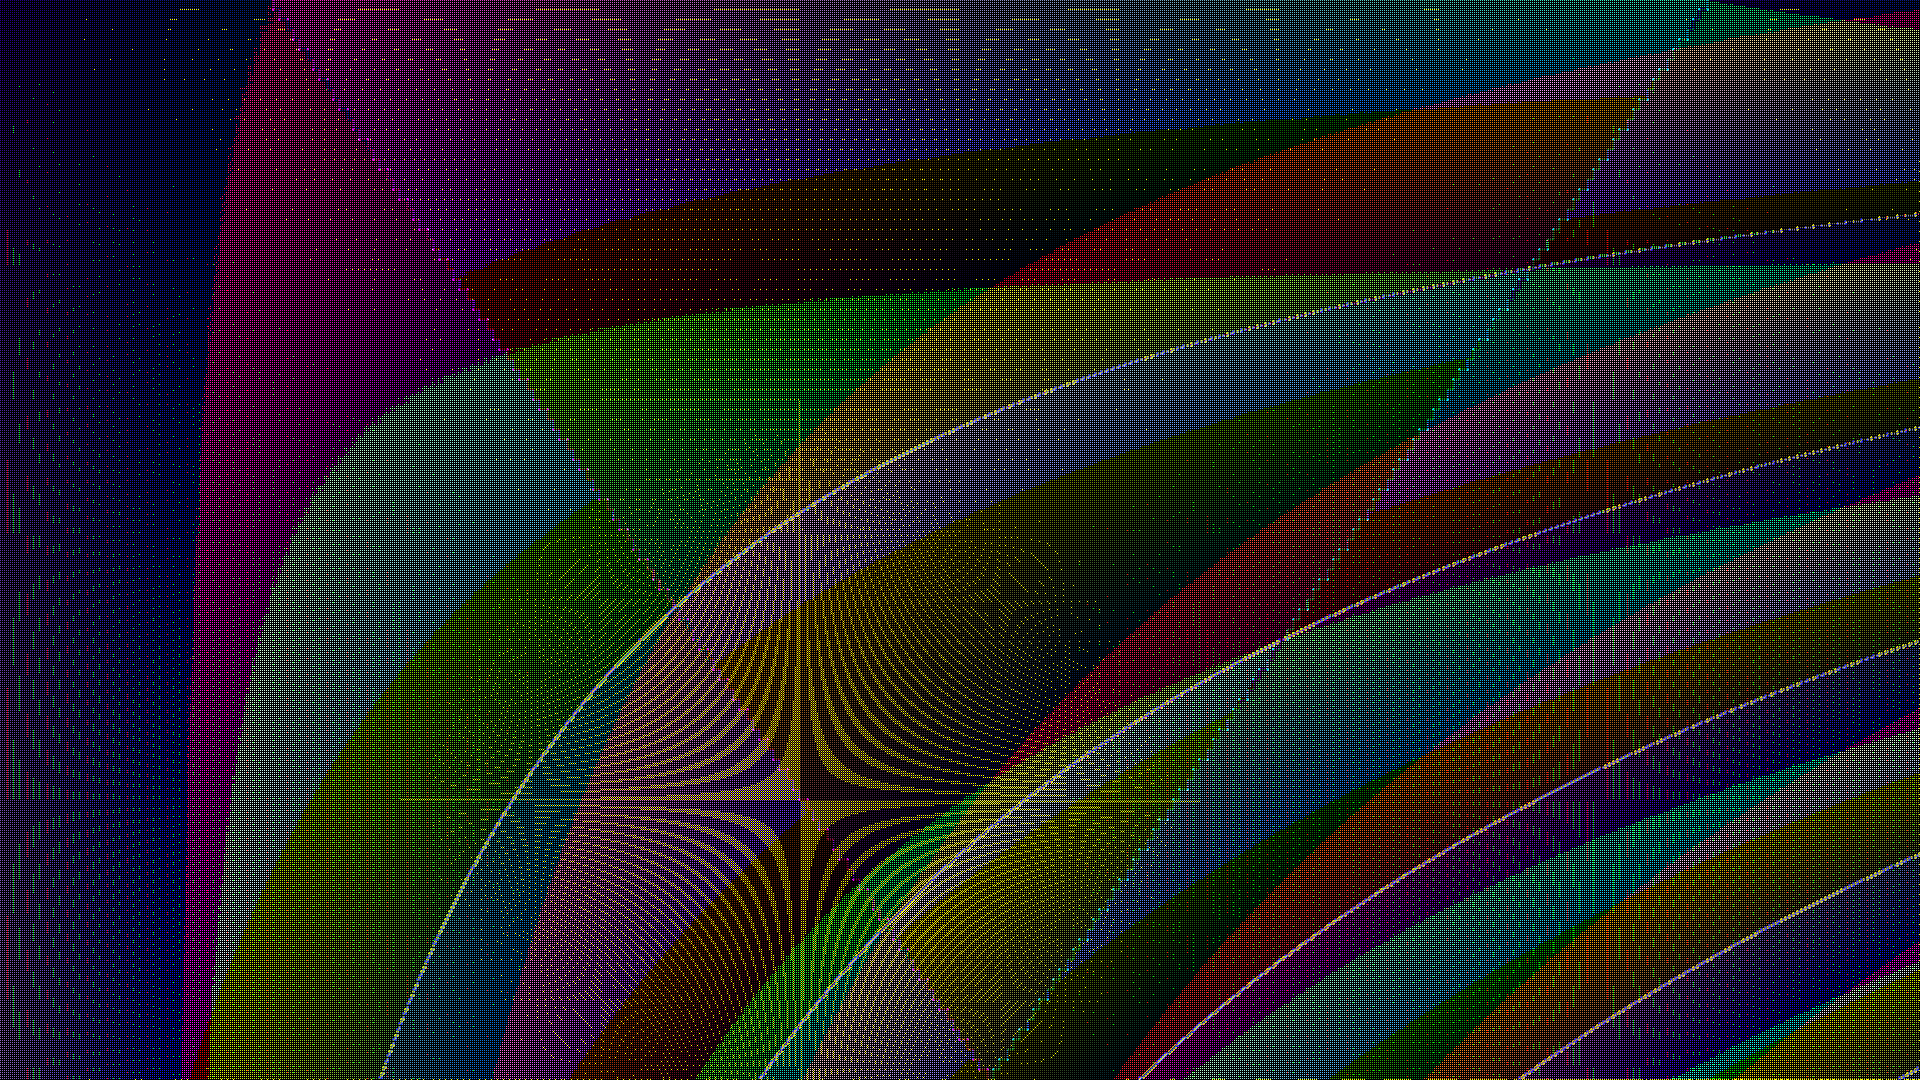
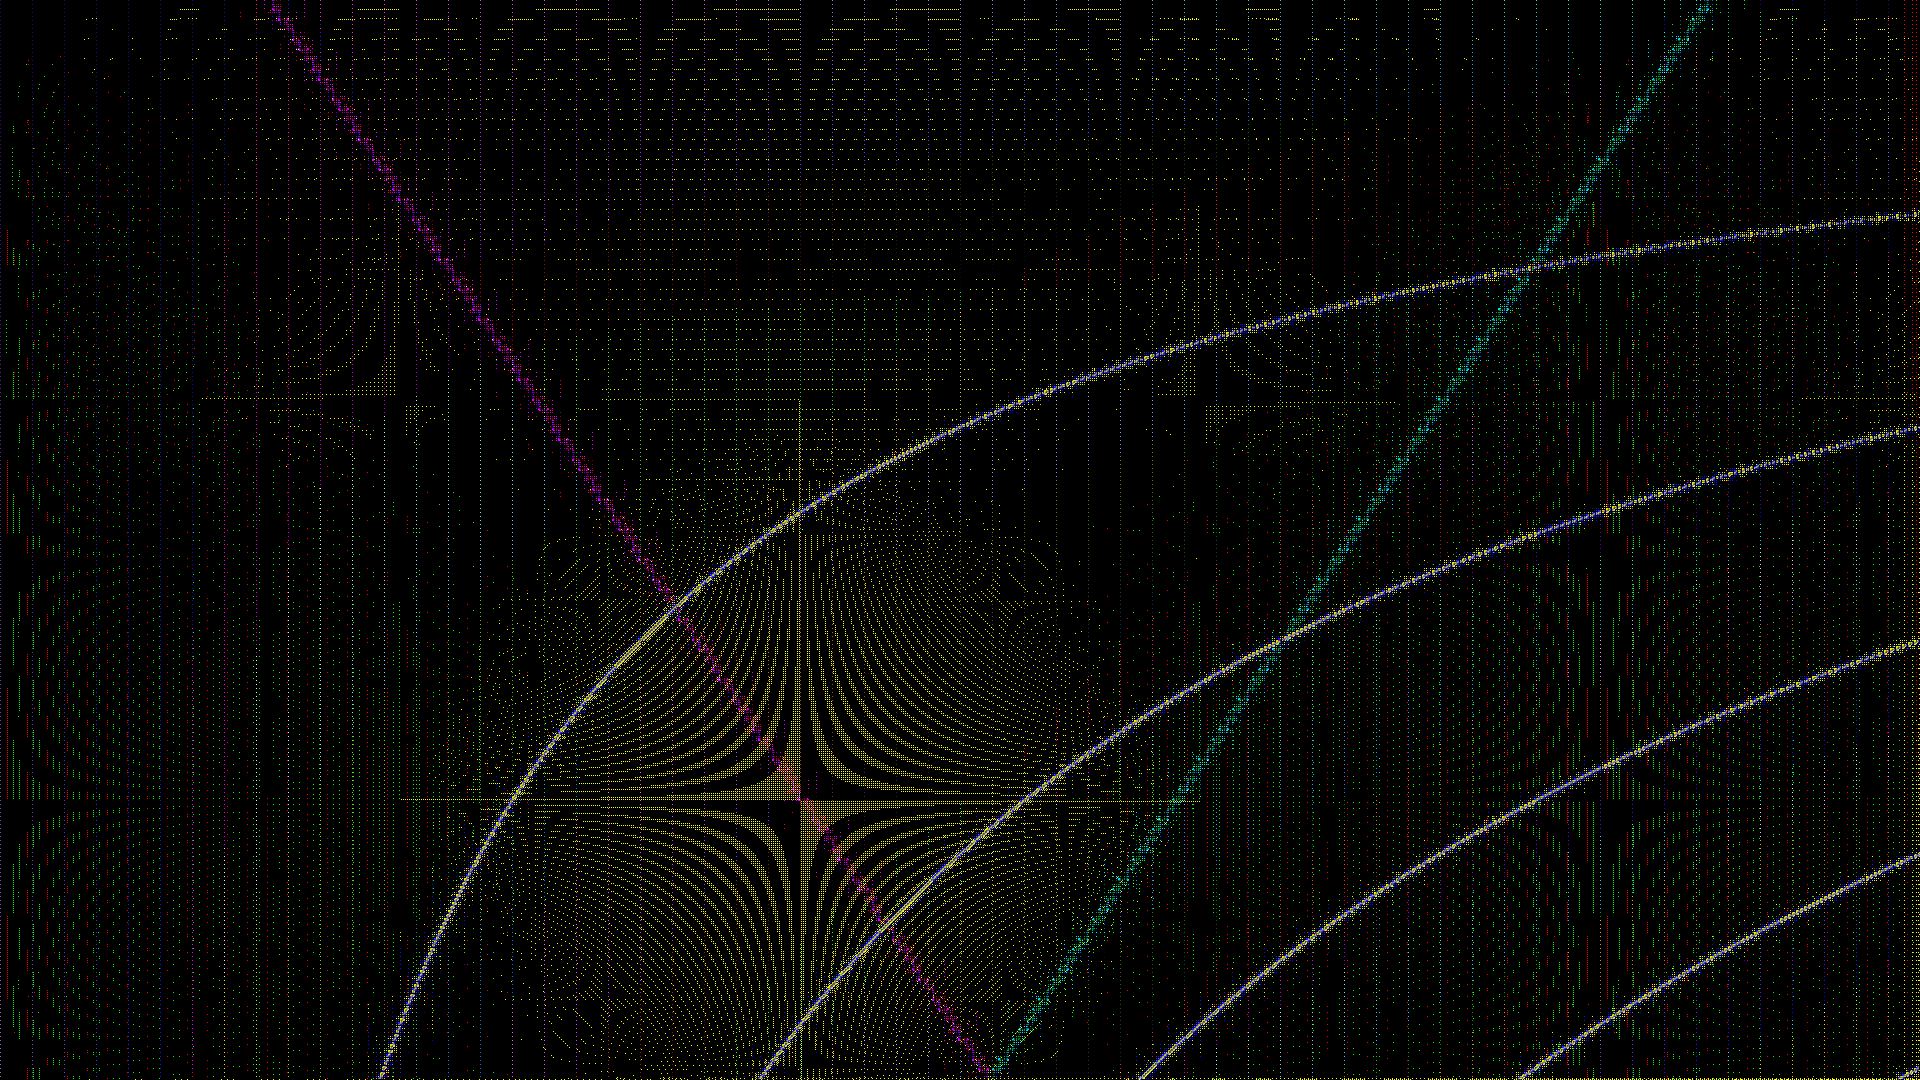
re-ordering approx/detail coeff into text pic with any decomp levels possible

Changed region(s): [[0.0, 0.0, 1.0, 1.0]]

diff --git a/JXS_wavelet_transform/JXS_wavelet_transform.cpp b/JXS_wavelet_transform/JXS_wavelet_transform.cpp
@@ -44,8 +44,8 @@ int main()
     image_paint(image);
 
     //ids_construct(&ids, &image, cfgpNLx, cfgpNLy, cfgpSd, xs_config.p.Cw, xs_config.p.Lh);
-    int8_t/*nibble*/ ndecomp_h = 1; // 5;
-    int8_t/*nibble*/ ndecomp_v = 1; // 2;
+    int8_t/*nibble*/ ndecomp_h = 5; // 5;
+    int8_t/*nibble*/ ndecomp_v = 2; // 2;
     ids.ncomps = image.ncomps;
     ids.w = image.width;
     ids.h = image.height;
@@ -116,47 +116,56 @@ int main()
     // and save this picture to image file
     if (image_write(image.width, image.height, buf, L"decomposition_after_inline_DWT.png"))
         printf("cannot write image file 'decomposition_after_inline_DWT.png'\n");
-    // re-order picture with (ndecomp_h, ndecomp_v) stencils into classical decomposition picture, 
-    // (AA, LH, HL, HH), or (AA, HD, VD, DD) in MATLAB convention. Only ndecomp_h = 1, ndecomp_v = 1 is shown, 
-    // other (ndecomp_h, ndecomp_v) values may follow suit later
-    if (ndecomp_h == 1 && ndecomp_v == 1)
+
+    // re-order picture with (ndecomp_h, ndecomp_v) stencils into classical decomposition picture: 
+    // for example, for ndecomp_h = 1, ndecomp_v = 1 it would look like
+    // (AA, LH, HL, HH), or (AA, HD, VD, DD) in MATLAB convention.
+    
+    int stride = image.width;
+    int rs = 256 * 16; // right shift, 12 bit positions
+    int cellw = image.width / (1 << ndecomp_h); // cell width
+    if (ndecomp_v == 0)
     {
-        int rs = 256 * 16; // right shift, 12 bit positions
-        for (int iy = 0; iy < image.height / 2; ++iy)
+        for (int lvlhor = 0; lvlhor <= (1 << ndecomp_h) - 1; ++lvlhor)
         {
-            for (int ix = 0; ix < image.width / 2; ++ix)
+            int cell0x = lvlhor * cellw; // cell origin X
+            for (int iy = 0; iy < image.height; ++iy)
             {
-                int stride = image.width;
-                int iCC = 2 * iy * stride + 2 * ix; // top left stencil corner
-                int iLL = iy * image.width + ix;
-                int iLH = iy * image.width + ix + image.width / 2;
-                int iHL = (iy + image.height / 2) * image.width + ix;
-                int iHH = (iy + image.height / 2) * image.width + ix + image.width / 2;
-                buf[iLL] = // Approximation coeffs
-                    (uint8_t)(image.comps_array[0][iCC] / rs) * 256 * 256 + // red
-                    (uint8_t)(image.comps_array[1][iCC] / rs) * 256 + // green
-                    (uint8_t)(image.comps_array[2][iCC] / rs); // blue
-                buf[iLH] = // horizontal detail coeffs
-                    (uint8_t)(image.comps_array[0][iCC + 1] / rs) * 256 * 256 + // red
-                    (uint8_t)(image.comps_array[1][iCC + 1] / rs) * 256 + // green
-                    (uint8_t)(image.comps_array[2][iCC + 1] / rs); // blue
-                buf[iHL] = // vertical detail coeffs
-                    (uint8_t)(image.comps_array[0][iCC + stride] / rs) * 256 * 256 + // red
-                    (uint8_t)(image.comps_array[1][iCC + stride] / rs) * 256 + // green
-                    (uint8_t)(image.comps_array[2][iCC + stride] / rs); // blue
-                buf[iHH] = // diagonal detail coeffs
-                    (uint8_t)(image.comps_array[0][iCC + stride + 1] / rs) * 256 * 256 + // red
-                    (uint8_t)(image.comps_array[1][iCC + stride + 1] / rs) * 256 + // green
-                    (uint8_t)(image.comps_array[2][iCC + stride + 1] / rs); // blue
+                for (int ix = 0, ixs = ix + lvlhor; ix < cellw && ixs < image.width; ++ix, ixs += (1 << ndecomp_h))
+                {
+                    buf[iy * stride + cell0x + ix] =
+                        (uint8_t)(image.comps_array[0][iy * stride + ixs] / rs) * 256 * 256 + // red
+                        (uint8_t)(image.comps_array[1][iy * stride + ixs] / rs) * 256 + // green
+                        (uint8_t)(image.comps_array[2][iy * stride + ixs] / rs); // blue
+                }
             }
         }
-        if (image_write(image.width, image.height, buf, L"re-ordered_decomposition.png"))
-            printf("cannot write image file 're-ordered_decomposition.png'\n");
     }
     else
     {
-            printf("decomp_H/V!=1, image file 're-ordered_decomposition.png unaltered from previous run'\n");
+        int cellh = image.height / (1 << ndecomp_v); // cell height
+        for (int lvlver = 0; lvlver <= (1 << ndecomp_v) - 1; ++lvlver) // lvlver is a vertical decomp level
+        {
+            int cell0y = lvlver * cellh; // cell origin Y
+            for (int lvlhor = 0; lvlhor <= (1 << ndecomp_h) - 1; ++lvlhor) // lvlver is a horizontal decomp level
+            {
+                int cell0x = lvlhor * cellw; // cell origin X
+                for (int iy = 0, iys = iy + lvlver; iy < cellh && iys < image.height; ++iy, iys += (1 << ndecomp_v))
+                {
+                    for (int ix = 0, ixs = ix + lvlhor; ix < cellw && ixs < image.width; ++ix, ixs += (1 << ndecomp_h))
+                    {
+                        buf[(cell0y + iy) * stride + (cell0x + ix)] =
+                            (uint8_t)(image.comps_array[0][iys * stride + ixs] / rs) * 256 * 256 + // red
+                            (uint8_t)(image.comps_array[1][iys * stride + ixs] / rs) * 256 + // green
+                            (uint8_t)(image.comps_array[2][iys * stride + ixs] / rs); // blue
+                    }
+                }
+            }
+        }
     }
+    if (image_write(image.width, image.height, buf, L"re-ordered_decomposition.png"))
+        printf("cannot write image file 're-ordered_decomposition.png'\n");
+
     // IDWT (inverse DWT)
     dwt_inverse_transform(&ids, &image);
     
@@ -199,9 +208,12 @@ int main()
     printf("Using JPEG XS workflow as implemented in ISO 21122 reference software,\n");
     printf("DWT inline-transforms source_image into data in the xs_image_t image\n");
     printf("from which data IDWT generates a recovered_image.\n");
-    printf("'image_after_DWT.png' is constructed from image.comps_array[0][i]/256/16 pixels ");
-    printf("after inline DWT on source_image and is only created to illustrate ");
-    printf("an uncoventional picture of approx and details coeffs with JPEG XS wavelet decomposition.\n");
+    printf("Image 'decomposition_after_inline_DWT.png' is constructed \n");
+    printf("from image.comps_array[0][i]/256/16 pixels after inline DWT \n");
+    printf("on source_image and is only created to illustrate an uncoventional picture\n ");
+    printf("of approx and details coeffs with JPEG XS wavelet decomposition.\n");
+    printf("Code lines 124-167 re-order this unconventional picture of approx/detail coeffs \n");
+    printf("and draw the conventional picture into 're-ordered_decomposition.png'\n");
     printf("A useful exercise is to vary ids.nlxy.y values (0, 1, 2) and see how the picture changes.\n");
-    printf("In this exercise (only) you can also vary ids.nlxy.x values (0, ..., 7) provided ids.nlxy.x >= ids.nlxy.y.\n");
+    printf("In this exercise (only) you can also vary ids.nlxy.x values (0, ..., 7), provided ids.nlxy.x >= ids.nlxy.y.\n");
 }
